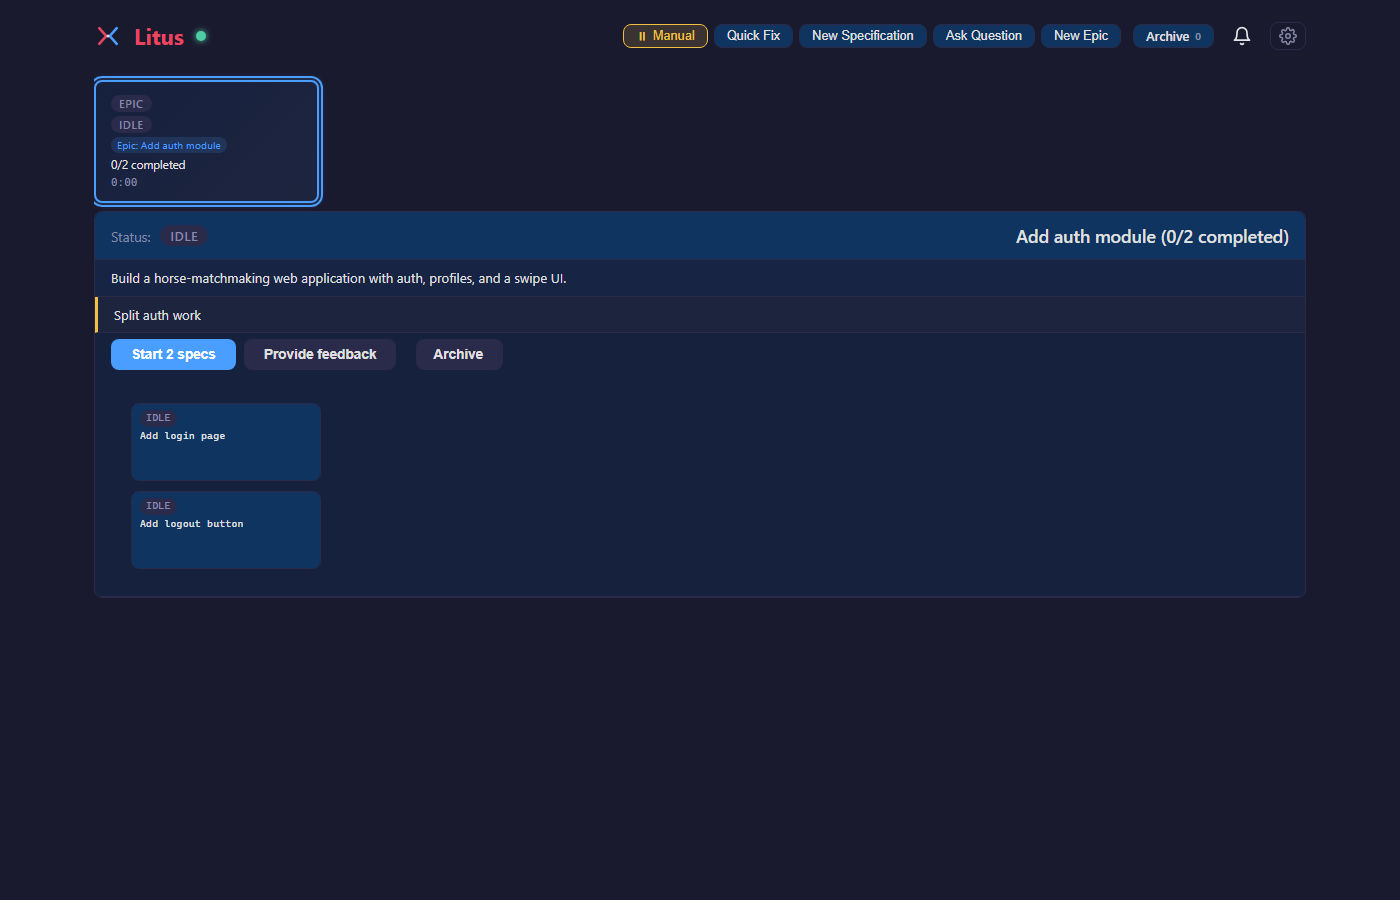
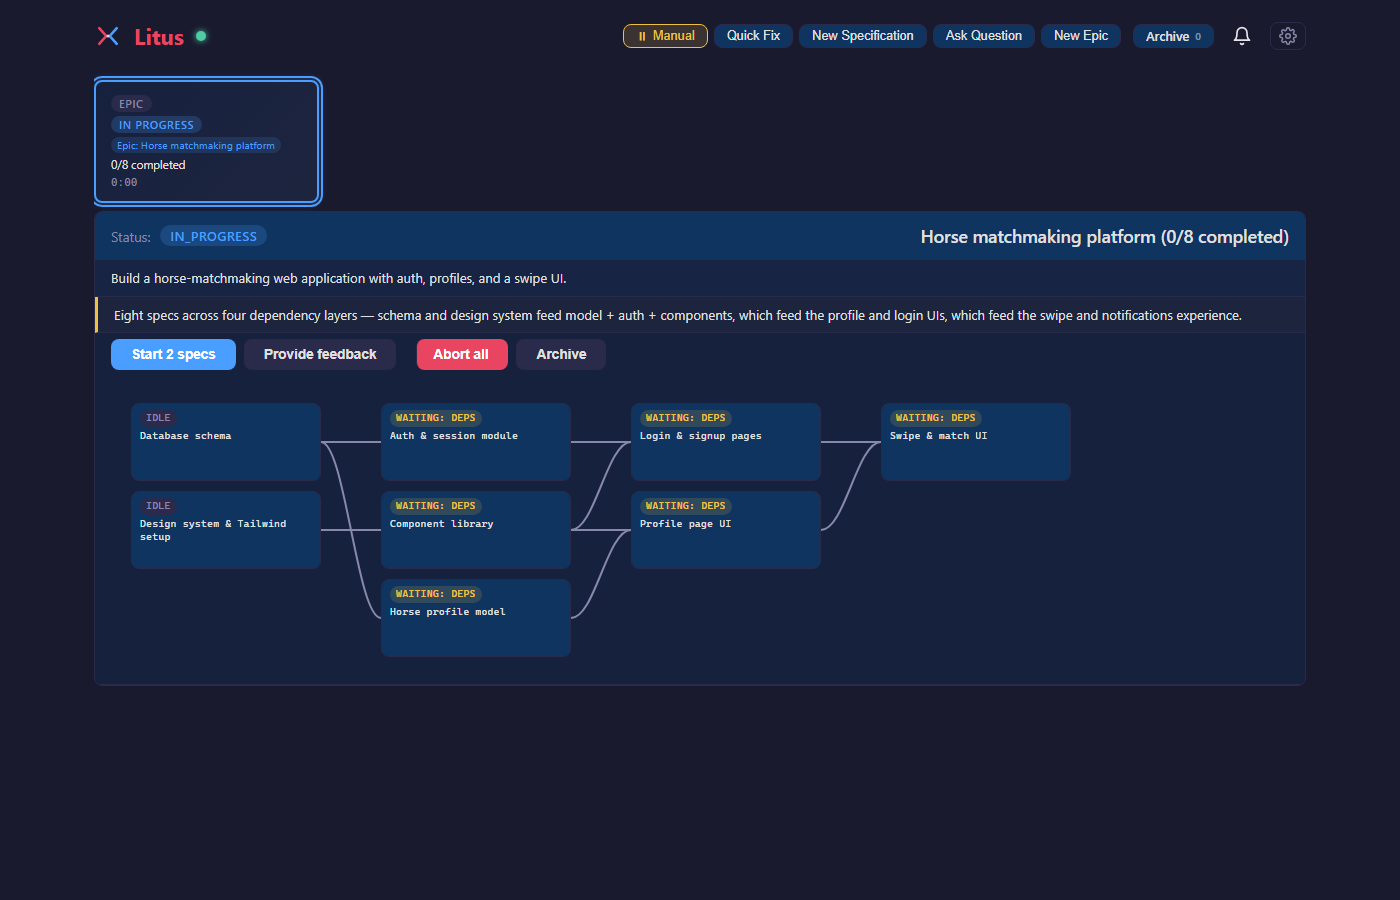
docs(readme): show a richly layered epic tree in the screenshot
Adds tests/e2e/scenarios/epic-screenshot.json — a screenshot-only fixture
scripting an 8-spec / 4-layer dependency graph for the horse-matchmaking
sample epic. The previous epic-tree.png used the e2e suite's `epic-happy`
scenario, which only has two sibling specs and doesn't show off the
dependency-tracking the Epic kind exists for.

The new image makes the layers visible (Database + Design system → Auth
+ Profile model + Components → Profile page + Login pages → Swipe + match
UI), with WAITING: DEPS badges and the dependency edges between cards.

diff --git a/tests/e2e/screenshots/readme.shots.ts b/tests/e2e/screenshots/readme.shots.ts
@@ -151,8 +151,12 @@ test.describe("quick fix screenshots", () => {
 // Epic — epic-tree + pipeline-epic (the dependency view IS the epic pipeline).
 // ---------------------------------------------------------------------------
 test.describe("epic screenshots", () => {
+	// Use the screenshot-only `epic-screenshot` scenario, which scripts an
+	// 8-spec / 4-layer dependency graph for the horse-matchmaking sample epic
+	// — much more representative of what an Epic decomposition actually looks
+	// like than the 2-spec sibling fixtures used by the e2e suite.
 	test.use({
-		scenarioName: "epic-happy",
+		scenarioName: "epic-screenshot",
 		autoMode: "manual",
 		configOverrides: {
 			prompts: {
@@ -178,9 +182,10 @@ test.describe("epic screenshots", () => {
 
 		const tree = new EpicTree(page);
 		await expect(tree.container()).toBeVisible({ timeout: 30_000 });
-		// Wait until at least one child node has rendered so the tree isn't
-		// captured mid-decomposition.
-		await expect(tree.allChildRows().first()).toBeVisible({ timeout: 30_000 });
+		// Wait until every child node has rendered so the dependency edges
+		// aren't captured mid-paint. The screenshot scenario scripts 8 specs.
+		await expect(tree.allChildRows()).toHaveCount(8, { timeout: 30_000 });
+		await hideAlertToasts(page);
 
 		await page.screenshot({ path: shotPath("epic-tree"), fullPage: false });
 		await page.screenshot({ path: shotPath("pipeline-epic"), fullPage: false });
